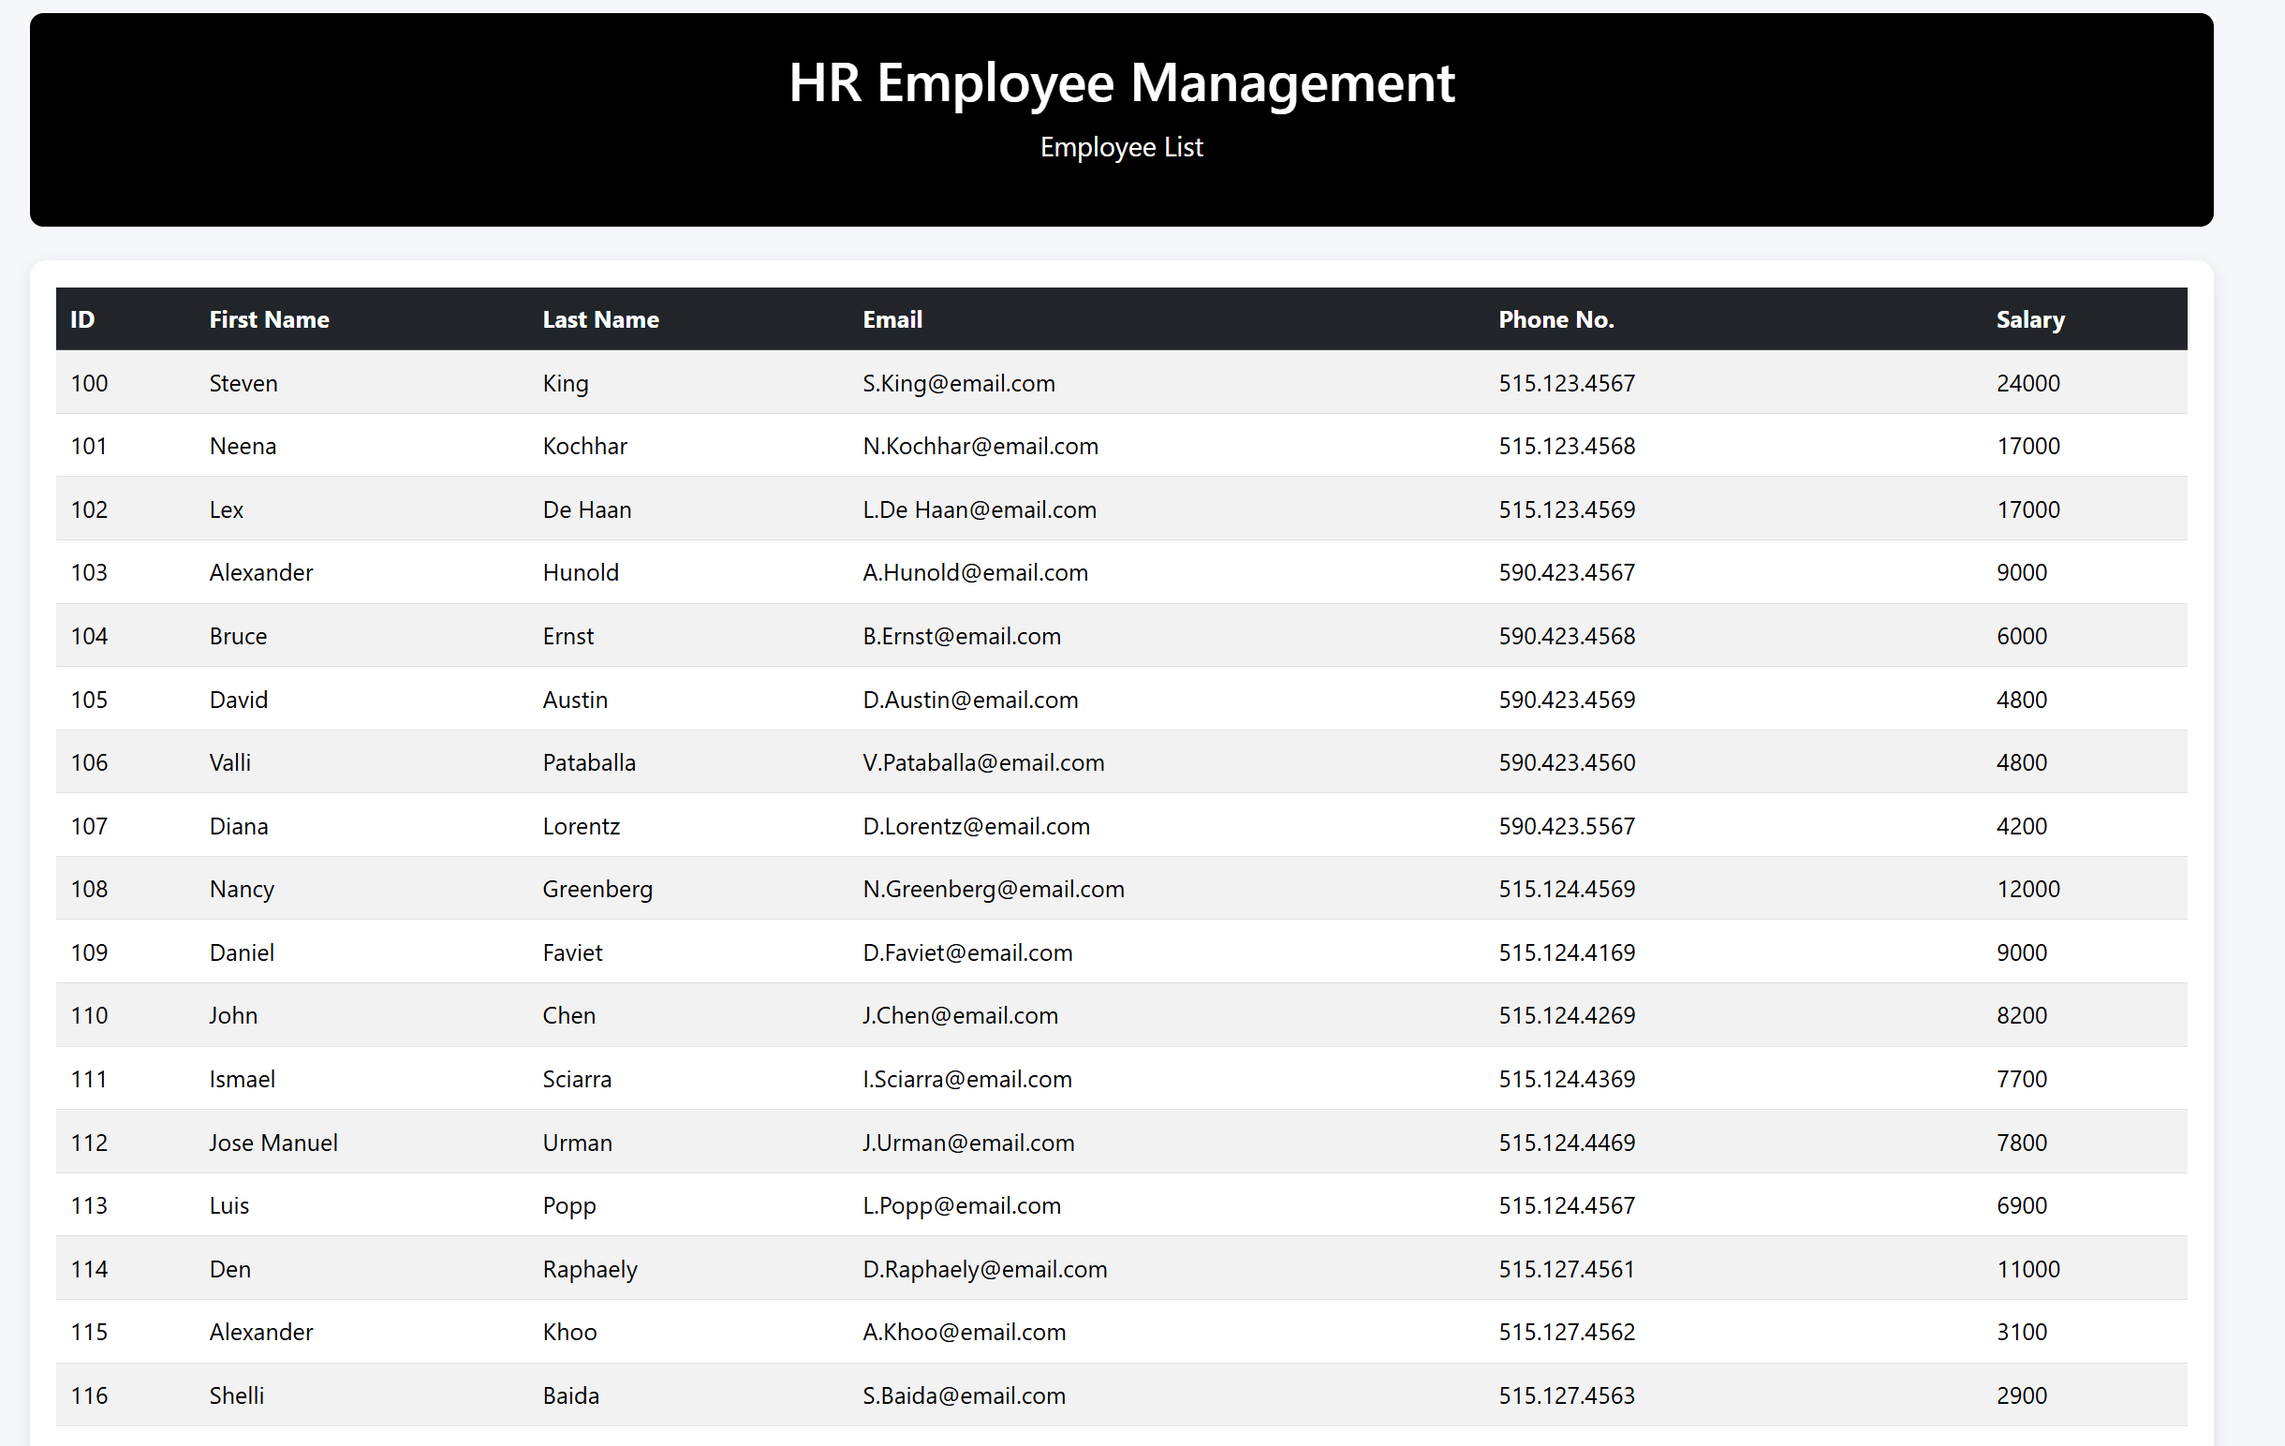
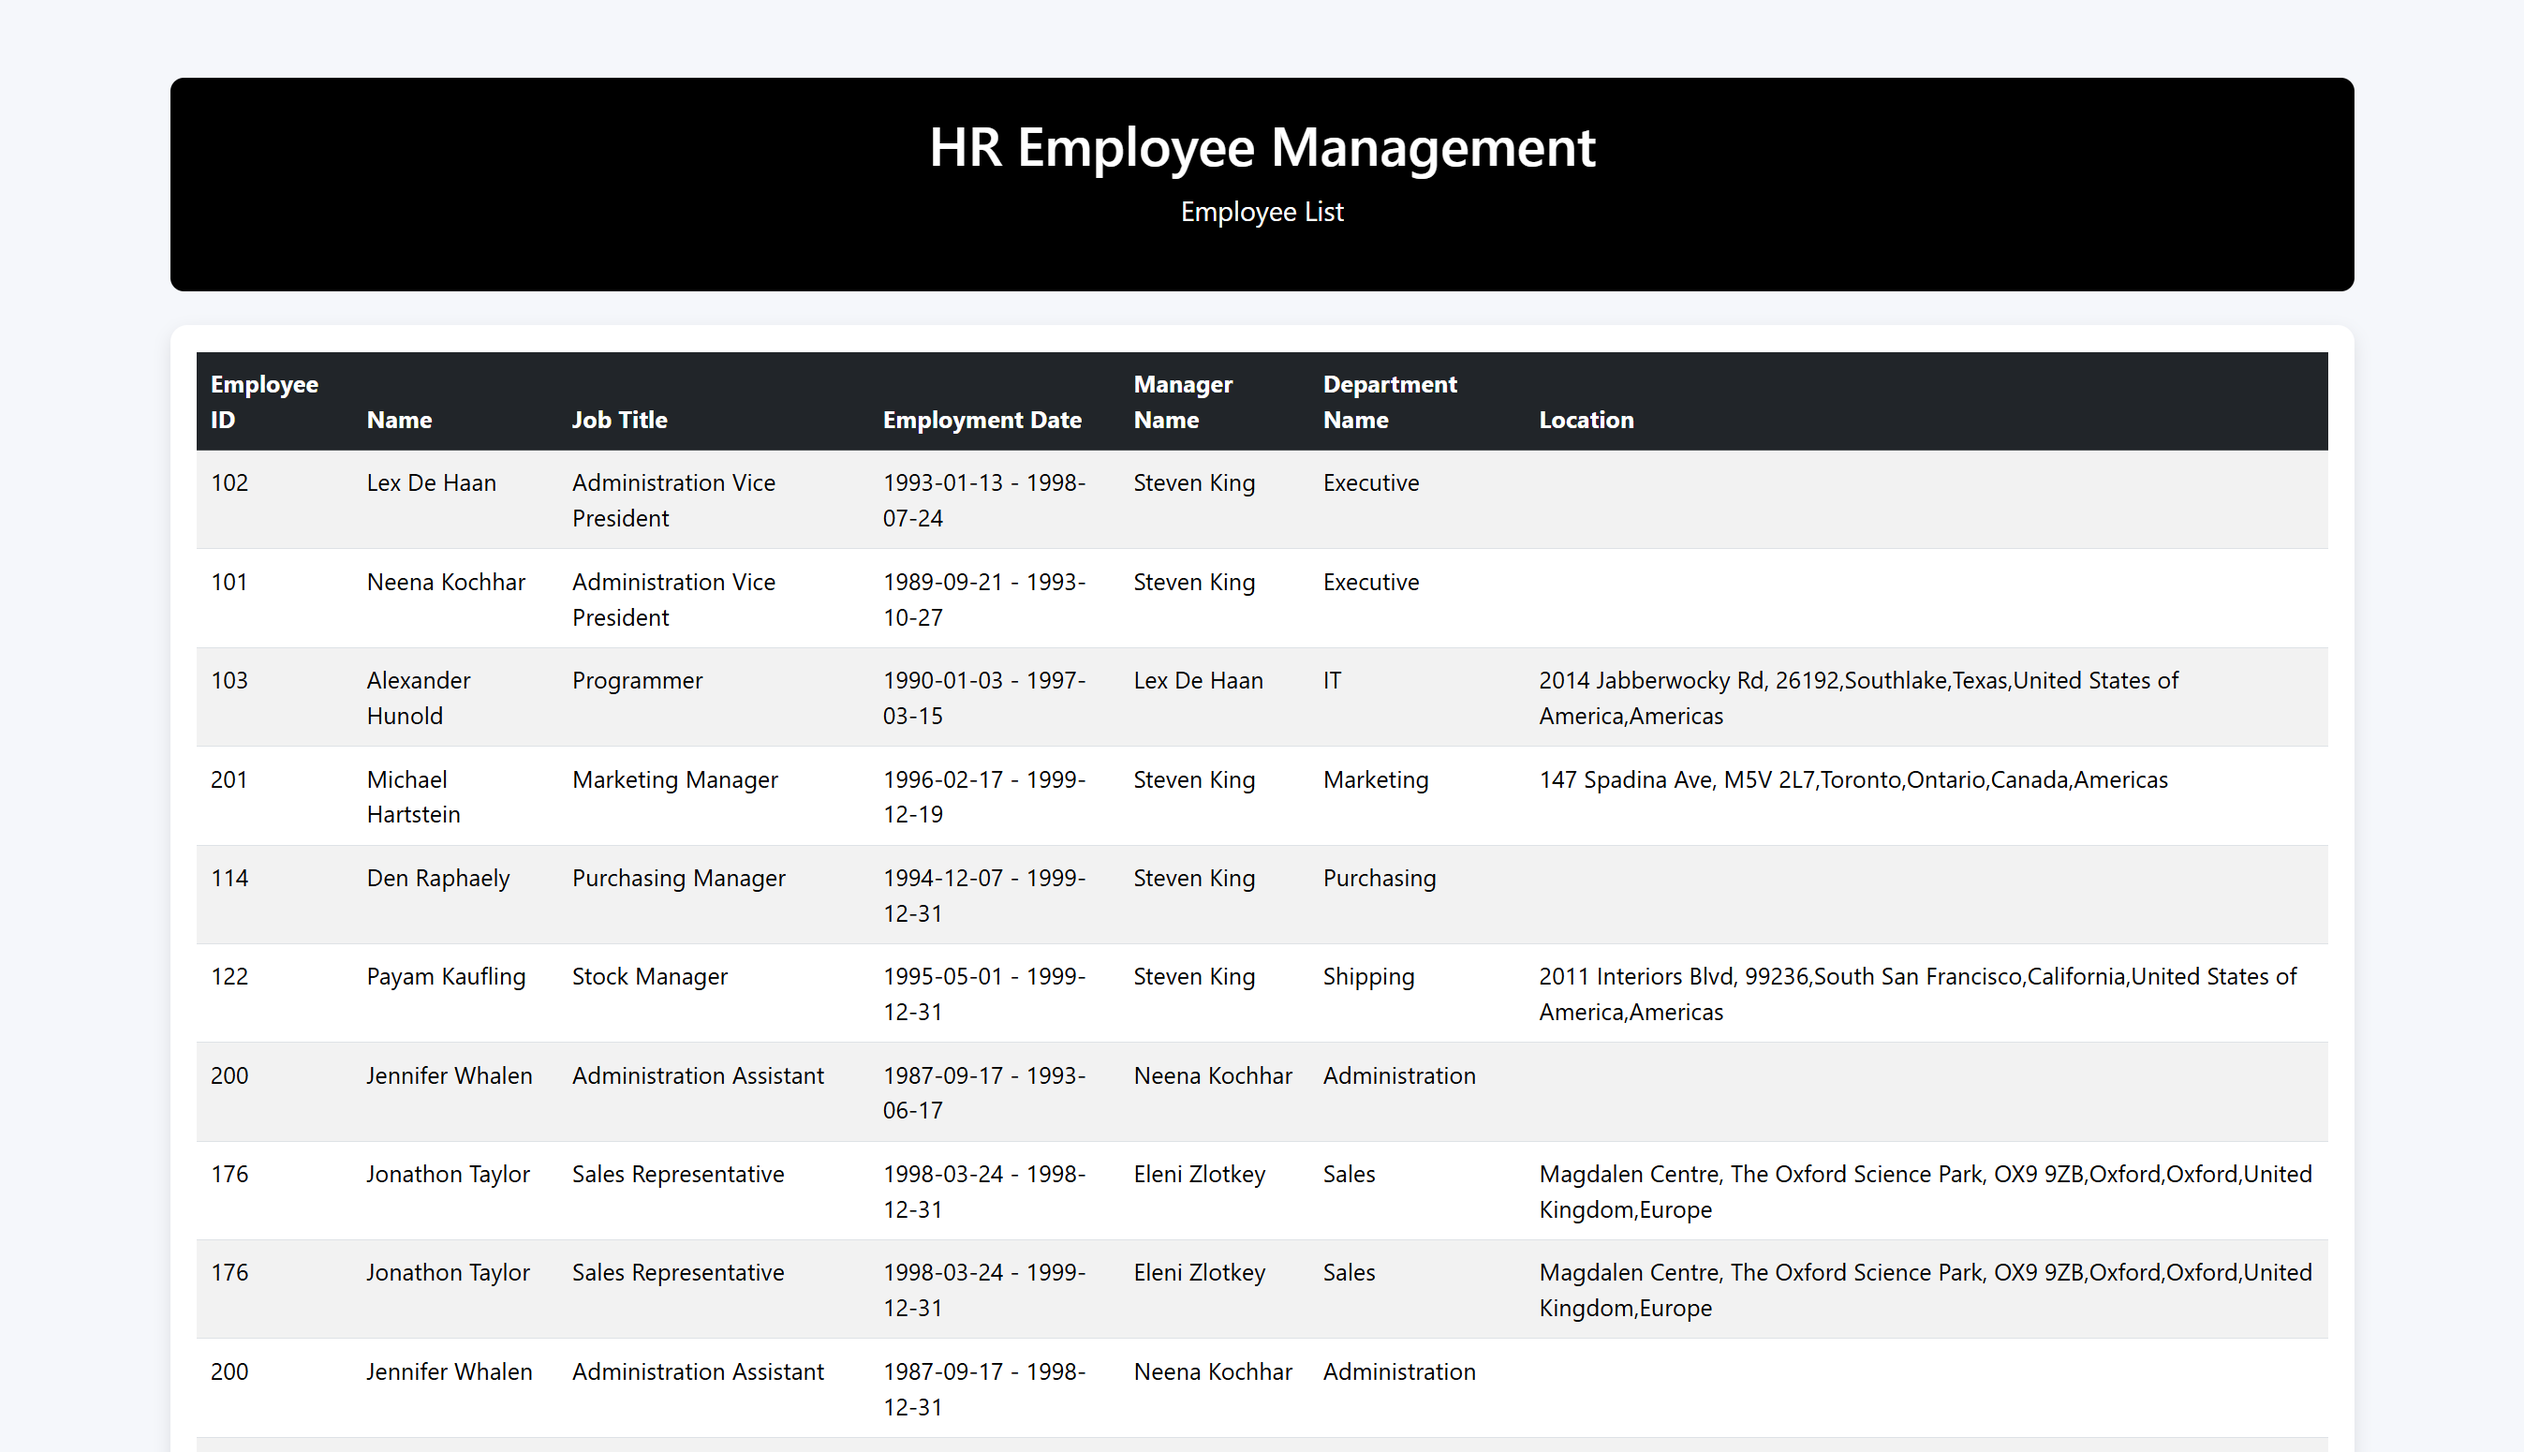
Add files via upload

diff --git a/display.php b/display.php
@@ -10,7 +10,7 @@ if ($conn->connect_error) {
     die("Connection failed: " . $conn->connect_error);
 }
 
-$sql = "SELECT employee_id, first_name, last_name, email, phone_number, salary FROM employees";
+$sql = "SELECT * FROM `view_hr_management`";
 $result = $conn->query($sql);
 ?>
 
@@ -64,12 +64,13 @@ table{
 
 <thead class="table-dark">
 <tr>
-<th>ID</th>
-<th>First Name</th>
-<th>Last Name</th>
-<th>Email</th>
-<th>Phone No.</th>
-<th>Salary</th>
+<th>Employee ID</th>
+<th>Name</th>
+<th>Job Title</th>
+<th>Employment Date</th>
+<th>Manager Name</th>
+<th>Department Name</th>
+<th>Location</th>
 </tr>
 </thead>
 
@@ -80,12 +81,13 @@ if ($result->num_rows > 0) {
     while($row = $result->fetch_assoc()) {
 
         echo "<tr>";
-        echo "<td>".$row['employee_id']."</td>";
-        echo "<td>".$row['first_name']."</td>";
-        echo "<td>".$row['last_name']."</td>";
-        echo "<td>".$row['email']."</td>";
-        echo "<td>".$row['phone_number']."</td>";
-        echo "<td>".$row['salary']."</td>";
+        echo "<td>".$row['Employee ID']."</td>";
+        echo "<td>".$row['Full_name']."</td>";
+        echo "<td>".$row['Job Title']."</td>";
+        echo "<td>".$row['Employee Date']."</td>";
+        echo "<td>".$row['Manager Name']."</td>";
+        echo "<td>".$row['Department Name']."</td>";
+        echo "<td>".$row['Location']."</td>";
         echo "</tr>";
 
     }
